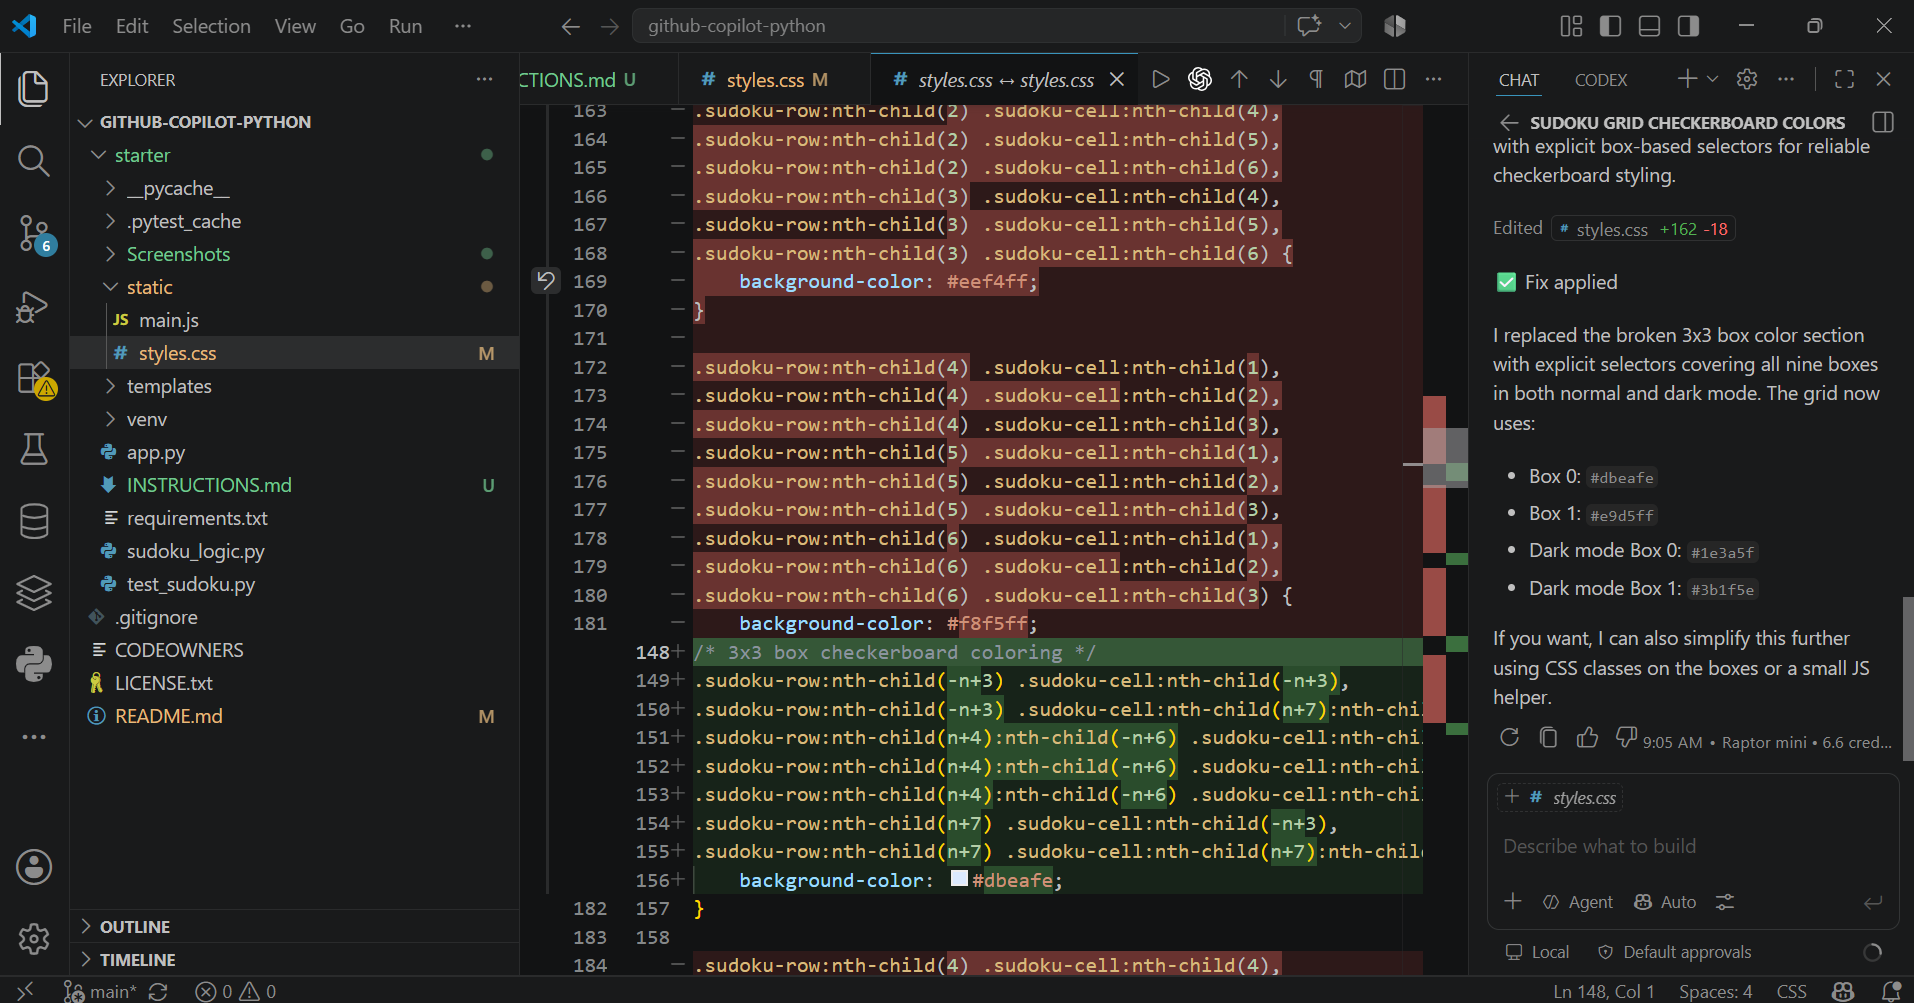
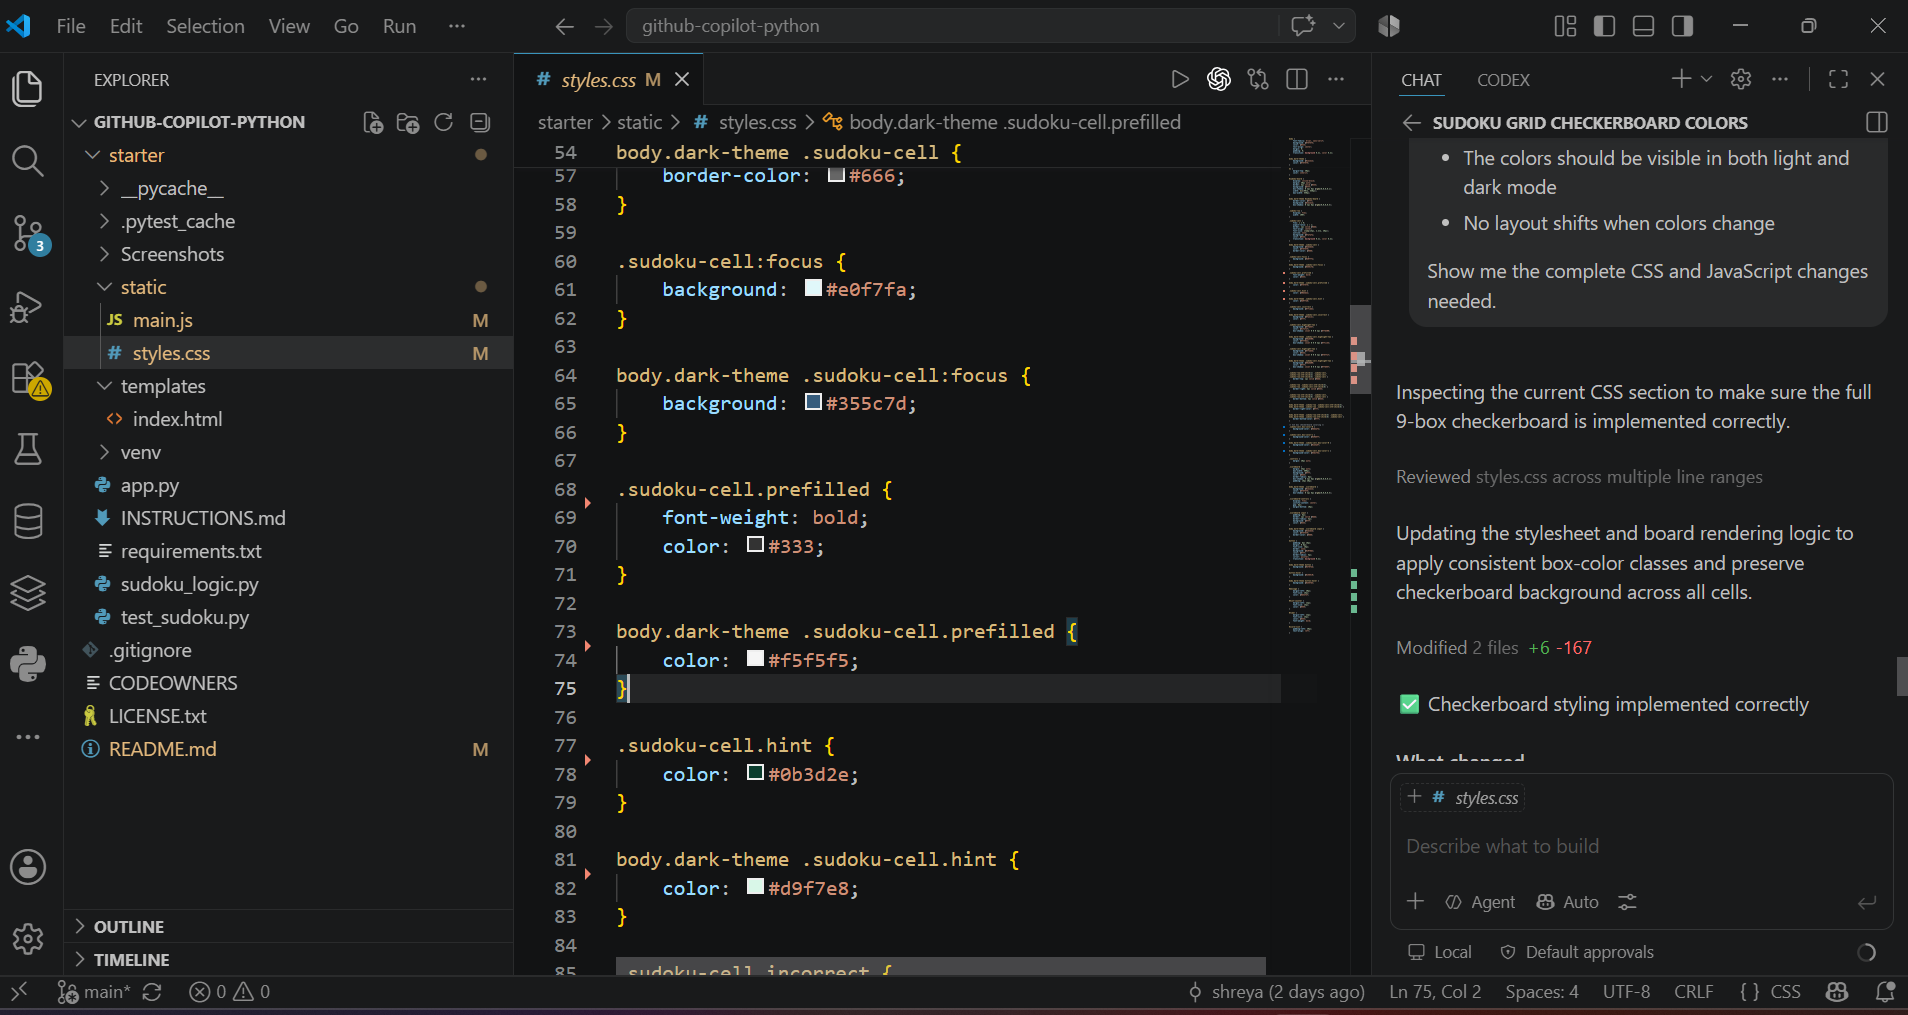
Added copilot_box_colors.png with full prompt and response

diff --git a/starter/static/styles.css b/starter/static/styles.css
@@ -41,6 +41,10 @@ body.dark-theme #sudoku-board {
 
 .sudoku-cell {
     flex: 1 1 0;
+    min-width: 0;
+    width: 0;
+    padding: 0;
+    box-sizing: border-box;
     aspect-ratio: 1 / 1;
     border: 1px solid #bbb;
     text-align: center;
@@ -66,23 +70,19 @@ body.dark-theme .sudoku-cell:focus {
 }
 
 .sudoku-cell.prefilled {
-    background: #e0e0e0;
     font-weight: bold;
     color: #333;
 }
 
 body.dark-theme .sudoku-cell.prefilled {
-    background: #4a4a4a;
     color: #f5f5f5;
 }
 
 .sudoku-cell.hint {
-    background: #d1e7dd;
     color: #0b3d2e;
 }
 
 body.dark-theme .sudoku-cell.hint {
-    background: #2f4f4f;
     color: #d9f7e8;
 }
 
@@ -146,177 +146,19 @@ body.dark-theme .sudoku-row:nth-child(6) .sudoku-cell {
 }
 
 /* 3x3 box checkerboard coloring */
-.sudoku-row:nth-child(1) .sudoku-cell:nth-child(1),
-.sudoku-row:nth-child(1) .sudoku-cell:nth-child(2),
-.sudoku-row:nth-child(1) .sudoku-cell:nth-child(3),
-.sudoku-row:nth-child(2) .sudoku-cell:nth-child(1),
-.sudoku-row:nth-child(2) .sudoku-cell:nth-child(2),
-.sudoku-row:nth-child(2) .sudoku-cell:nth-child(3),
-.sudoku-row:nth-child(3) .sudoku-cell:nth-child(1),
-.sudoku-row:nth-child(3) .sudoku-cell:nth-child(2),
-.sudoku-row:nth-child(3) .sudoku-cell:nth-child(3),
-.sudoku-row:nth-child(1) .sudoku-cell:nth-child(7),
-.sudoku-row:nth-child(1) .sudoku-cell:nth-child(8),
-.sudoku-row:nth-child(1) .sudoku-cell:nth-child(9),
-.sudoku-row:nth-child(2) .sudoku-cell:nth-child(7),
-.sudoku-row:nth-child(2) .sudoku-cell:nth-child(8),
-.sudoku-row:nth-child(2) .sudoku-cell:nth-child(9),
-.sudoku-row:nth-child(3) .sudoku-cell:nth-child(7),
-.sudoku-row:nth-child(3) .sudoku-cell:nth-child(8),
-.sudoku-row:nth-child(3) .sudoku-cell:nth-child(9),
-.sudoku-row:nth-child(4) .sudoku-cell:nth-child(4),
-.sudoku-row:nth-child(4) .sudoku-cell:nth-child(5),
-.sudoku-row:nth-child(4) .sudoku-cell:nth-child(6),
-.sudoku-row:nth-child(5) .sudoku-cell:nth-child(4),
-.sudoku-row:nth-child(5) .sudoku-cell:nth-child(5),
-.sudoku-row:nth-child(5) .sudoku-cell:nth-child(6),
-.sudoku-row:nth-child(6) .sudoku-cell:nth-child(4),
-.sudoku-row:nth-child(6) .sudoku-cell:nth-child(5),
-.sudoku-row:nth-child(6) .sudoku-cell:nth-child(6),
-.sudoku-row:nth-child(7) .sudoku-cell:nth-child(1),
-.sudoku-row:nth-child(7) .sudoku-cell:nth-child(2),
-.sudoku-row:nth-child(7) .sudoku-cell:nth-child(3),
-.sudoku-row:nth-child(8) .sudoku-cell:nth-child(1),
-.sudoku-row:nth-child(8) .sudoku-cell:nth-child(2),
-.sudoku-row:nth-child(8) .sudoku-cell:nth-child(3),
-.sudoku-row:nth-child(9) .sudoku-cell:nth-child(1),
-.sudoku-row:nth-child(9) .sudoku-cell:nth-child(2),
-.sudoku-row:nth-child(9) .sudoku-cell:nth-child(3),
-.sudoku-row:nth-child(7) .sudoku-cell:nth-child(7),
-.sudoku-row:nth-child(7) .sudoku-cell:nth-child(8),
-.sudoku-row:nth-child(7) .sudoku-cell:nth-child(9),
-.sudoku-row:nth-child(8) .sudoku-cell:nth-child(7),
-.sudoku-row:nth-child(8) .sudoku-cell:nth-child(8),
-.sudoku-row:nth-child(8) .sudoku-cell:nth-child(9),
-.sudoku-row:nth-child(9) .sudoku-cell:nth-child(7),
-.sudoku-row:nth-child(9) .sudoku-cell:nth-child(8),
-.sudoku-row:nth-child(9) .sudoku-cell:nth-child(9) {
+.sudoku-cell.box-color-0 {
     background-color: #dbeafe;
 }
 
-.sudoku-row:nth-child(1) .sudoku-cell:nth-child(4),
-.sudoku-row:nth-child(1) .sudoku-cell:nth-child(5),
-.sudoku-row:nth-child(1) .sudoku-cell:nth-child(6),
-.sudoku-row:nth-child(2) .sudoku-cell:nth-child(4),
-.sudoku-row:nth-child(2) .sudoku-cell:nth-child(5),
-.sudoku-row:nth-child(2) .sudoku-cell:nth-child(6),
-.sudoku-row:nth-child(3) .sudoku-cell:nth-child(4),
-.sudoku-row:nth-child(3) .sudoku-cell:nth-child(5),
-.sudoku-row:nth-child(3) .sudoku-cell:nth-child(6),
-.sudoku-row:nth-child(4) .sudoku-cell:nth-child(1),
-.sudoku-row:nth-child(4) .sudoku-cell:nth-child(2),
-.sudoku-row:nth-child(4) .sudoku-cell:nth-child(3),
-.sudoku-row:nth-child(5) .sudoku-cell:nth-child(1),
-.sudoku-row:nth-child(5) .sudoku-cell:nth-child(2),
-.sudoku-row:nth-child(5) .sudoku-cell:nth-child(3),
-.sudoku-row:nth-child(6) .sudoku-cell:nth-child(1),
-.sudoku-row:nth-child(6) .sudoku-cell:nth-child(2),
-.sudoku-row:nth-child(6) .sudoku-cell:nth-child(3),
-.sudoku-row:nth-child(4) .sudoku-cell:nth-child(7),
-.sudoku-row:nth-child(4) .sudoku-cell:nth-child(8),
-.sudoku-row:nth-child(4) .sudoku-cell:nth-child(9),
-.sudoku-row:nth-child(5) .sudoku-cell:nth-child(7),
-.sudoku-row:nth-child(5) .sudoku-cell:nth-child(8),
-.sudoku-row:nth-child(5) .sudoku-cell:nth-child(9),
-.sudoku-row:nth-child(6) .sudoku-cell:nth-child(7),
-.sudoku-row:nth-child(6) .sudoku-cell:nth-child(8),
-.sudoku-row:nth-child(6) .sudoku-cell:nth-child(9),
-.sudoku-row:nth-child(7) .sudoku-cell:nth-child(4),
-.sudoku-row:nth-child(7) .sudoku-cell:nth-child(5),
-.sudoku-row:nth-child(7) .sudoku-cell:nth-child(6),
-.sudoku-row:nth-child(8) .sudoku-cell:nth-child(4),
-.sudoku-row:nth-child(8) .sudoku-cell:nth-child(5),
-.sudoku-row:nth-child(8) .sudoku-cell:nth-child(6),
-.sudoku-row:nth-child(9) .sudoku-cell:nth-child(4),
-.sudoku-row:nth-child(9) .sudoku-cell:nth-child(5),
-.sudoku-row:nth-child(9) .sudoku-cell:nth-child(6) {
+.sudoku-cell.box-color-1 {
     background-color: #e9d5ff;
 }
 
-body.dark-theme .sudoku-row:nth-child(1) .sudoku-cell:nth-child(1),
-body.dark-theme .sudoku-row:nth-child(1) .sudoku-cell:nth-child(2),
-body.dark-theme .sudoku-row:nth-child(1) .sudoku-cell:nth-child(3),
-body.dark-theme .sudoku-row:nth-child(2) .sudoku-cell:nth-child(1),
-body.dark-theme .sudoku-row:nth-child(2) .sudoku-cell:nth-child(2),
-body.dark-theme .sudoku-row:nth-child(2) .sudoku-cell:nth-child(3),
-body.dark-theme .sudoku-row:nth-child(3) .sudoku-cell:nth-child(1),
-body.dark-theme .sudoku-row:nth-child(3) .sudoku-cell:nth-child(2),
-body.dark-theme .sudoku-row:nth-child(3) .sudoku-cell:nth-child(3),
-body.dark-theme .sudoku-row:nth-child(1) .sudoku-cell:nth-child(7),
-body.dark-theme .sudoku-row:nth-child(1) .sudoku-cell:nth-child(8),
-body.dark-theme .sudoku-row:nth-child(1) .sudoku-cell:nth-child(9),
-body.dark-theme .sudoku-row:nth-child(2) .sudoku-cell:nth-child(7),
-body.dark-theme .sudoku-row:nth-child(2) .sudoku-cell:nth-child(8),
-body.dark-theme .sudoku-row:nth-child(2) .sudoku-cell:nth-child(9),
-body.dark-theme .sudoku-row:nth-child(3) .sudoku-cell:nth-child(7),
-body.dark-theme .sudoku-row:nth-child(3) .sudoku-cell:nth-child(8),
-body.dark-theme .sudoku-row:nth-child(3) .sudoku-cell:nth-child(9),
-body.dark-theme .sudoku-row:nth-child(4) .sudoku-cell:nth-child(4),
-body.dark-theme .sudoku-row:nth-child(4) .sudoku-cell:nth-child(5),
-body.dark-theme .sudoku-row:nth-child(4) .sudoku-cell:nth-child(6),
-body.dark-theme .sudoku-row:nth-child(5) .sudoku-cell:nth-child(4),
-body.dark-theme .sudoku-row:nth-child(5) .sudoku-cell:nth-child(5),
-body.dark-theme .sudoku-row:nth-child(5) .sudoku-cell:nth-child(6),
-body.dark-theme .sudoku-row:nth-child(6) .sudoku-cell:nth-child(4),
-body.dark-theme .sudoku-row:nth-child(6) .sudoku-cell:nth-child(5),
-body.dark-theme .sudoku-row:nth-child(6) .sudoku-cell:nth-child(6),
-body.dark-theme .sudoku-row:nth-child(7) .sudoku-cell:nth-child(1),
-body.dark-theme .sudoku-row:nth-child(7) .sudoku-cell:nth-child(2),
-body.dark-theme .sudoku-row:nth-child(7) .sudoku-cell:nth-child(3),
-body.dark-theme .sudoku-row:nth-child(8) .sudoku-cell:nth-child(1),
-body.dark-theme .sudoku-row:nth-child(8) .sudoku-cell:nth-child(2),
-body.dark-theme .sudoku-row:nth-child(8) .sudoku-cell:nth-child(3),
-body.dark-theme .sudoku-row:nth-child(9) .sudoku-cell:nth-child(1),
-body.dark-theme .sudoku-row:nth-child(9) .sudoku-cell:nth-child(2),
-body.dark-theme .sudoku-row:nth-child(9) .sudoku-cell:nth-child(3),
-body.dark-theme .sudoku-row:nth-child(7) .sudoku-cell:nth-child(7),
-body.dark-theme .sudoku-row:nth-child(7) .sudoku-cell:nth-child(8),
-body.dark-theme .sudoku-row:nth-child(7) .sudoku-cell:nth-child(9),
-body.dark-theme .sudoku-row:nth-child(8) .sudoku-cell:nth-child(7),
-body.dark-theme .sudoku-row:nth-child(8) .sudoku-cell:nth-child(8),
-body.dark-theme .sudoku-row:nth-child(8) .sudoku-cell:nth-child(9),
-body.dark-theme .sudoku-row:nth-child(9) .sudoku-cell:nth-child(7),
-body.dark-theme .sudoku-row:nth-child(9) .sudoku-cell:nth-child(8),
-body.dark-theme .sudoku-row:nth-child(9) .sudoku-cell:nth-child(9) {
+body.dark-theme .sudoku-cell.box-color-0 {
     background-color: #1e3a5f;
 }
 
-body.dark-theme .sudoku-row:nth-child(1) .sudoku-cell:nth-child(4),
-body.dark-theme .sudoku-row:nth-child(1) .sudoku-cell:nth-child(5),
-body.dark-theme .sudoku-row:nth-child(1) .sudoku-cell:nth-child(6),
-body.dark-theme .sudoku-row:nth-child(2) .sudoku-cell:nth-child(4),
-body.dark-theme .sudoku-row:nth-child(2) .sudoku-cell:nth-child(5),
-body.dark-theme .sudoku-row:nth-child(2) .sudoku-cell:nth-child(6),
-body.dark-theme .sudoku-row:nth-child(3) .sudoku-cell:nth-child(4),
-body.dark-theme .sudoku-row:nth-child(3) .sudoku-cell:nth-child(5),
-body.dark-theme .sudoku-row:nth-child(3) .sudoku-cell:nth-child(6),
-body.dark-theme .sudoku-row:nth-child(4) .sudoku-cell:nth-child(1),
-body.dark-theme .sudoku-row:nth-child(4) .sudoku-cell:nth-child(2),
-body.dark-theme .sudoku-row:nth-child(4) .sudoku-cell:nth-child(3),
-body.dark-theme .sudoku-row:nth-child(5) .sudoku-cell:nth-child(1),
-body.dark-theme .sudoku-row:nth-child(5) .sudoku-cell:nth-child(2),
-body.dark-theme .sudoku-row:nth-child(5) .sudoku-cell:nth-child(3),
-body.dark-theme .sudoku-row:nth-child(6) .sudoku-cell:nth-child(1),
-body.dark-theme .sudoku-row:nth-child(6) .sudoku-cell:nth-child(2),
-body.dark-theme .sudoku-row:nth-child(6) .sudoku-cell:nth-child(3),
-body.dark-theme .sudoku-row:nth-child(4) .sudoku-cell:nth-child(7),
-body.dark-theme .sudoku-row:nth-child(4) .sudoku-cell:nth-child(8),
-body.dark-theme .sudoku-row:nth-child(4) .sudoku-cell:nth-child(9),
-body.dark-theme .sudoku-row:nth-child(5) .sudoku-cell:nth-child(7),
-body.dark-theme .sudoku-row:nth-child(5) .sudoku-cell:nth-child(8),
-body.dark-theme .sudoku-row:nth-child(5) .sudoku-cell:nth-child(9),
-body.dark-theme .sudoku-row:nth-child(6) .sudoku-cell:nth-child(7),
-body.dark-theme .sudoku-row:nth-child(6) .sudoku-cell:nth-child(8),
-body.dark-theme .sudoku-row:nth-child(6) .sudoku-cell:nth-child(9),
-body.dark-theme .sudoku-row:nth-child(7) .sudoku-cell:nth-child(4),
-body.dark-theme .sudoku-row:nth-child(7) .sudoku-cell:nth-child(5),
-body.dark-theme .sudoku-row:nth-child(7) .sudoku-cell:nth-child(6),
-body.dark-theme .sudoku-row:nth-child(8) .sudoku-cell:nth-child(4),
-body.dark-theme .sudoku-row:nth-child(8) .sudoku-cell:nth-child(5),
-body.dark-theme .sudoku-row:nth-child(8) .sudoku-cell:nth-child(6),
-body.dark-theme .sudoku-row:nth-child(9) .sudoku-cell:nth-child(4),
-body.dark-theme .sudoku-row:nth-child(9) .sudoku-cell:nth-child(5),
-body.dark-theme .sudoku-row:nth-child(9) .sudoku-cell:nth-child(6) {
+body.dark-theme .sudoku-cell.box-color-1 {
     background-color: #3b1f5e;
 }
 
@@ -402,6 +244,12 @@ body.dark-theme button:hover {
     font-size: 14px;
     color: #333;
     font-weight: bold;
+}
+
+/* Dark mode timer and hint counter */
+body.dark-theme #timer,
+body.dark-theme #hint-counter {
+    color: #f5f5f5;
 }
 
 #score-list {

diff --git a/starter/static/main.js b/starter/static/main.js
@@ -21,9 +21,10 @@ function createBoardElement() {
       const input = document.createElement('input');
       input.type = 'text';
       input.maxLength = 1;
-      input.className = 'sudoku-cell';
       input.dataset.row = i;
       input.dataset.col = j;
+      const boxIndex = (Math.floor(i / 3) + Math.floor(j / 3)) % 2;
+      input.className = `sudoku-cell box-color-${boxIndex}`;
       input.addEventListener('input', (e) => {
         const val = e.target.value.replace(/[^1-9]/g, '');
         e.target.value = val;

diff --git a/starter/templates/index.html b/starter/templates/index.html
@@ -2,6 +2,7 @@
 <html>
 <head>
   <meta charset="utf-8">
+  <meta name="viewport" content="width=device-width, initial-scale=1">
   <title>Sudoku Game</title>
   <link rel="stylesheet" href="/static/styles.css">
 </head>
